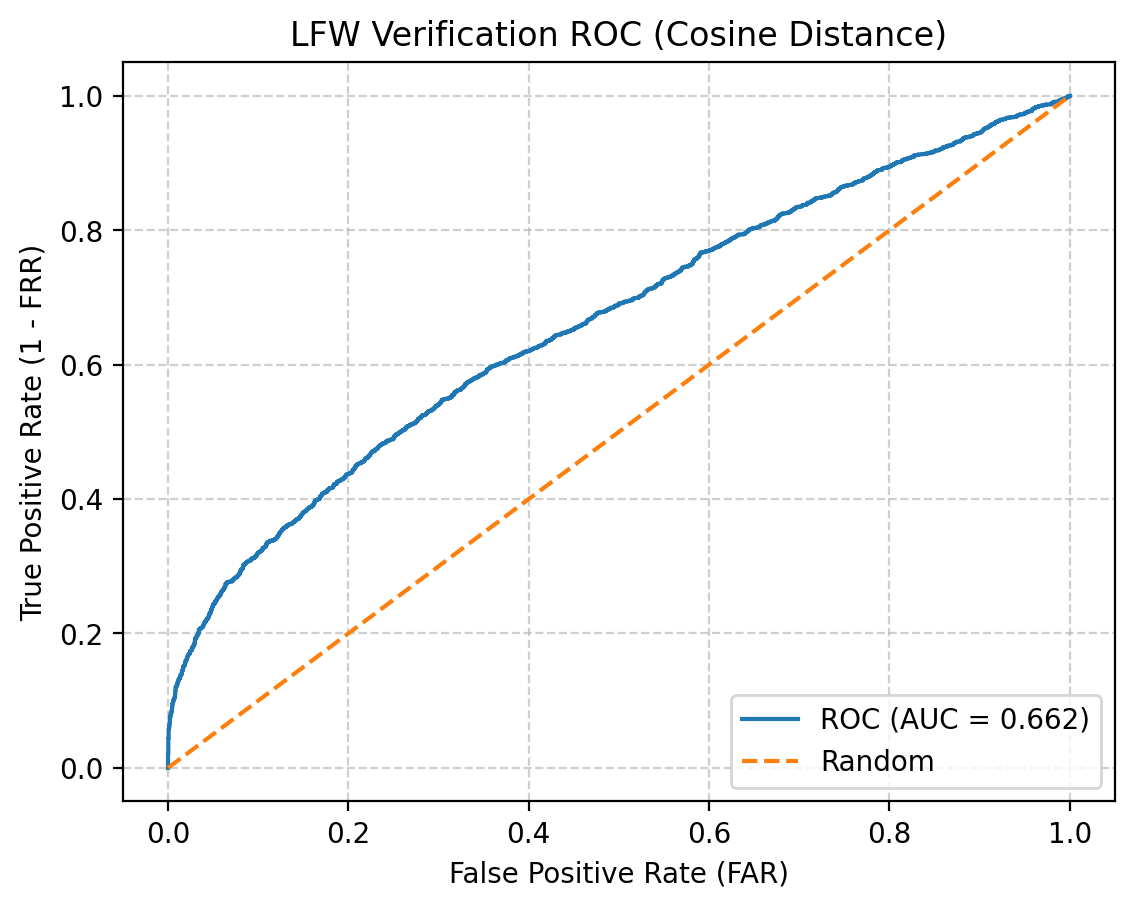
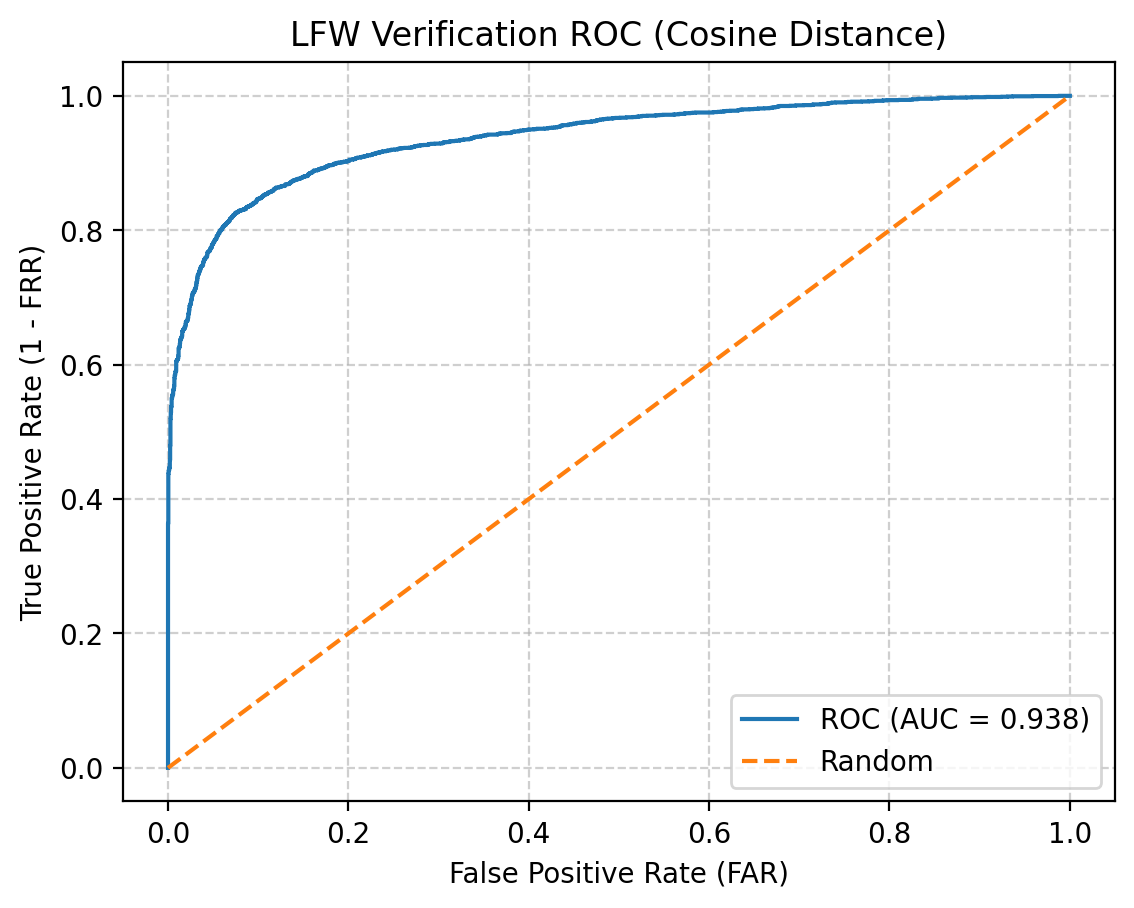
Update verification and liveness pipeline, ignore datasets and images

diff --git a/identificationCS_evaluation/verification.py b/identificationCS_evaluation/verification.py
@@ -7,7 +7,7 @@ import numpy as np
 # ============================================================
 
 # 🔴 MAIN SWITCH (THIS IS WHAT YOU CHANGE)
-USE_SFACE = False        # True → use SFace (CNN), False → use HOG only
+USE_SFACE = True        # True → use SFace (CNN), False → use HOG only
 
 # --- SFace (CNN, primary method) ---
 SFACE_MODEL_PATH = os.path.join(
